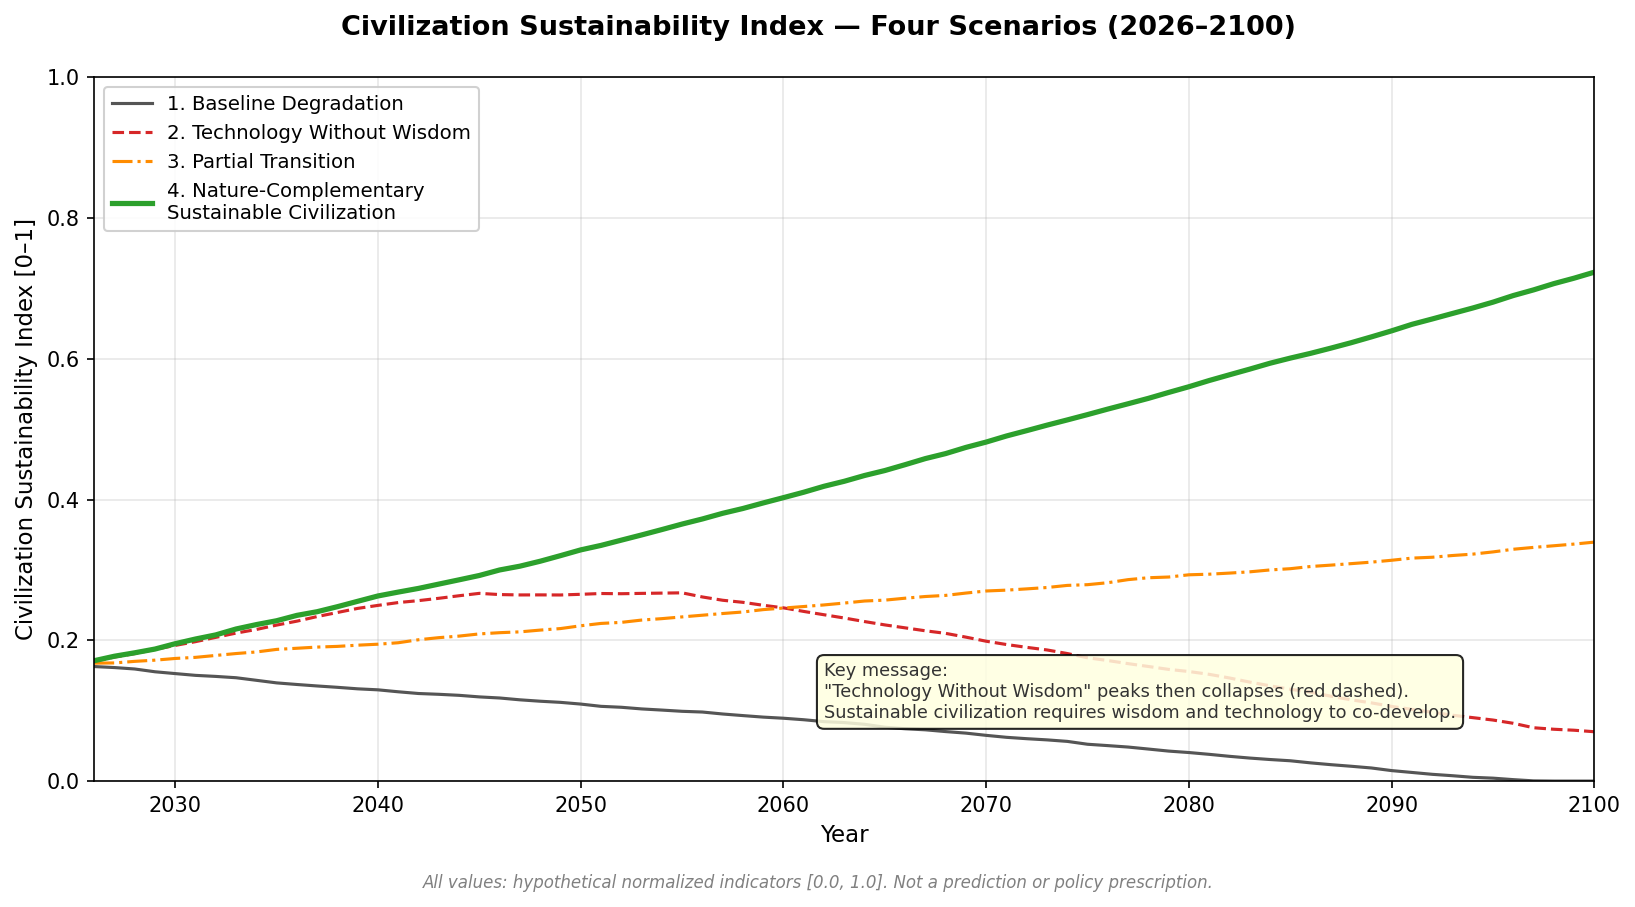
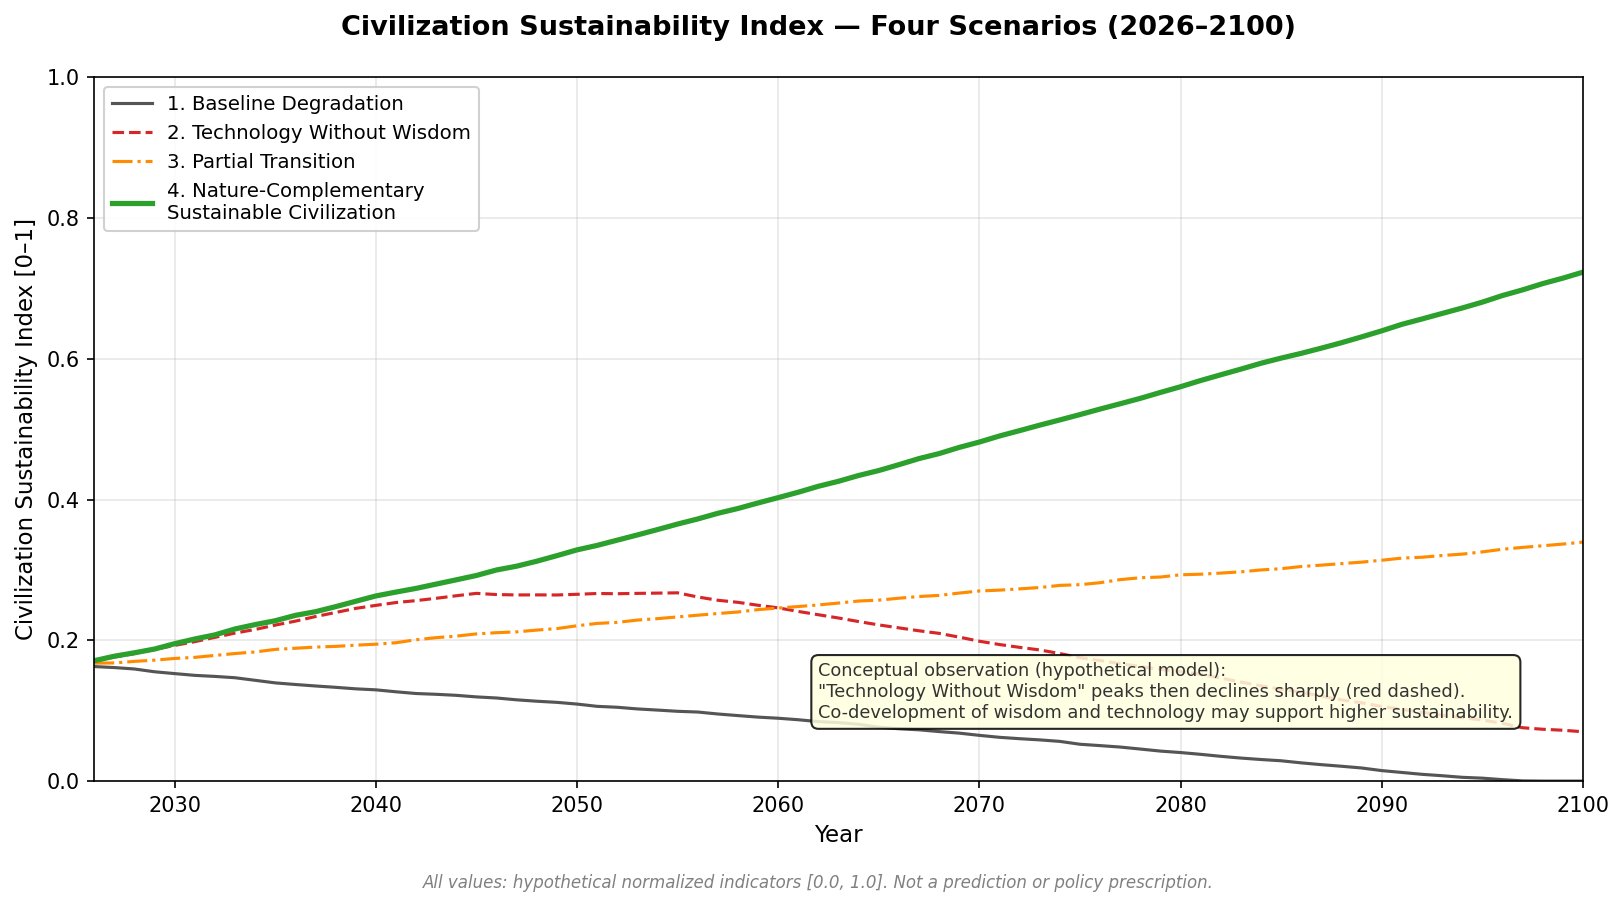
docs: soften overassertive language; add simulation output disclaimers
Replaced expressions that could imply scientific proof or deterministic
outcomes with appropriately hedged language throughout:

sustainable_civilization_simulation.py:
  - "collapses the index" -> "significantly reduces the index"
  - "critical failure condition" -> "key structural constraint in this model"
  - Figure annotation: "peaks then collapses" ->
    "peaks then declines sharply"; reframed as conceptual observation
  - Console label: "KEY FINDING" -> "CONCEPTUAL OBSERVATION"; added
    explicit statement that the model does not prove inevitable failure

SUSTAINABLE_CIVILIZATION_MODEL.md:
  - Added simulation output disclaimer block in Abstract
  - "The ecological gains are real." -> "In this hypothetical model,
    ecological indicators improve..." (removes false scientific certainty)
  - Scenario 2 message: added recommended wording that the scenario does
    not prove technological systems inevitably fail
  - "collapses the index" -> "significantly reduces the index in this formula"
  - "Collapse of maintenance funding" -> "Reduction or loss of maintenance funding"
  - "collapses sustainability" -> "may significantly reduce sustainability
    indicators" with "in this hypothetical model" qualifier

README.md:
  - Table row: "Early gains, then collapse" ->
    "Initial gains, then decline in sustainability"
  - Added Note block with simulation output disclaimer and clarification
    that Tech Without Wisdom does not prove inevitable failure
[…]

diff --git a/sustainable_civilization_simulation.py b/sustainable_civilization_simulation.py
@@ -97,8 +97,8 @@ def sustainability_index(s: dict) -> float:
     Design intent:
       - Ecological recovery is necessary (35%) but not sufficient alone.
       - Wisdom / ethics / governance contribute 30% combined (positive).
-      - Overexploitation subtracts 20%: growth without restraint collapses
-        the index even when ecological variables look healthy.
+      - Overexploitation subtracts 20%: growth without restraint significantly
+        reduces the index even when ecological variables appear healthy.
       - This encodes the premise: technology and ecology are conditions;
         civilizational quality is determined by human thought and governance.
 
@@ -229,7 +229,7 @@ def run_tech_no_wisdom() -> dict:
         else:
             s['infra'] = clamp(s['infra'] - 0.004 + n())
 
-        # Wisdom stagnates -- critical failure condition
+        # Wisdom stagnates -- key structural constraint in this model
         s['soc_coop'] = clamp(s['soc_coop'] + n() * 0.4)
         s['ethics']   = clamp(s['ethics']   + n() * 0.4)
         s['gov']      = clamp(s['gov']      + n() * 0.4)
@@ -386,9 +386,9 @@ ax.grid(True, alpha=0.3)
 
 # Key message annotation
 ax.annotate(
-    'Key message:\n'
-    '"Technology Without Wisdom" peaks then collapses (red dashed).\n'
-    'Sustainable civilization requires wisdom and technology to co-develop.',
+    'Conceptual observation (hypothetical model):\n'
+    '"Technology Without Wisdom" peaks then declines sharply (red dashed).\n'
+    'Co-development of wisdom and technology may support higher sustainability.',
     xy=(2062, 0.09), fontsize=8.5, color='#333333',
     bbox=dict(boxstyle='round,pad=0.4', facecolor='lightyellow', alpha=0.85))
 
@@ -570,10 +570,13 @@ print(SEP)
 print(' (*) Overexploitation Pressure: higher = worse (more pressure).')
 print('     All other variables: higher = better.')
 print()
-print(' KEY FINDING (conceptual):')
-print('   "Technology Without Wisdom" and "Baseline Degradation" end')
-print('   near the same low CSI range by 2100, despite strong early')
-print('   gains in Scenario 2. Sustainable civilization in this model')
-print('   requires ecological restoration AND civilizational wisdom')
-print('   to co-develop throughout the entire trajectory.')
+print(' CONCEPTUAL OBSERVATION (hypothetical model):')
+print('   In this model, "Technology Without Wisdom" and "Baseline Degradation"')
+print('   end near the same low CSI range by 2100, despite early gains in')
+print('   Scenario 2. This conceptually illustrates that ecological technologies')
+print('   may lose sustainability when combined with overexploitation, weak')
+print('   governance, and insufficient ethical alignment. It does not prove')
+print('   that technological systems inevitably fail. Co-development of')
+print('   ecological restoration and civilizational wisdom is the pathway')
+print('   that produces higher sustainability in this hypothetical model.')
 print(SEP)

diff --git a/SUSTAINABLE_CIVILIZATION_MODEL.md b/SUSTAINABLE_CIVILIZATION_MODEL.md
@@ -22,6 +22,8 @@ The simulation models four scenarios over a 75-year period (2026–2100) using h
 
 All values are hypothetical and normalized to [0.0, 1.0]. This is a conceptual simulation, not a scientific prediction.
 
+> **All simulation outputs are hypothetical normalized indicators designed for conceptual exploration. They are not measured data, scientific proof, climate projections, agricultural forecasts, or policy recommendations.**
+
 ---
 
 ## 1. Purpose
@@ -75,9 +77,9 @@ Why? Because:
 - Without long-term governance, the institutions that manage HRS/DGS systems underfund maintenance and monitoring after the initial momentum fades.
 - Overexploitation pressure — held at bay during the technology rollout — rebounds sharply and surpasses even the baseline level by year 2100 in this model.
 
-**The ecological gains are real. The civilizational transformation does not follow.**
+**In this hypothetical model, ecological indicators improve, but the Civilization Sustainability Index does not follow without wisdom co-development.**
 
-This is not a prediction. It is a structural hypothesis: ecological systems can recover, but if the human systems managing those ecological gains remain oriented toward short-term extraction and zero-sum competition, the recovery will not produce sustainable civilization.
+This is not a prediction or proof. It is a structural hypothesis encoded in the model's parameters: if the human systems managing ecological gains remain oriented toward short-term extraction and zero-sum competition, the simulation suggests that sustainability indicators may not improve significantly.
 
 ---
 
@@ -95,7 +97,7 @@ No intervention. Ecological degradation continues: soil loss, microbial decline,
 
 HRS, DGS, and related ecological technologies are deployed. Strong early gains result. However, human wisdom — ethical alignment, social cooperation, long-term governance, voluntary restraint — does not develop. Systems are managed for short-term benefit. Overexploitation rebounds sharply after initial reduction. Ecological gains erode under mismanagement after approximately year 2056 (model step 30). The Civilization Sustainability Index ends near the baseline level.
 
-**Conceptual message:** Technology without wisdom is temporarily effective and ultimately unstable. Advanced systems may be misused without a civilizational wisdom layer.
+**Conceptual message:** This scenario does not prove that technological systems inevitably fail. Rather, it conceptually illustrates that ecological technologies may lose sustainability when combined with short-term profit seeking, overexploitation, weak governance, low cooperation, and insufficient ethical alignment. Advanced systems may be misused without a civilizational wisdom layer.
 
 ---
 
@@ -164,7 +166,7 @@ Where:
 
 - Ecological recovery holds the largest single weight (35%) — it is necessary.
 - Wisdom and governance together hold 30% (ethics + cooperation + governance) — comparable in importance to ecological recovery.
-- Overexploitation subtracts 20% — growth without restraint collapses the index.
+- Overexploitation subtracts 20% — growth without restraint significantly reduces the index in this formula.
 - This means a scenario with perfect ecological recovery but zero ethical alignment and maximum overexploitation would still yield a low CSI.
 
 **Important note:** These weights are conceptual approximations. They are not empirically derived, peer-reviewed, or validated. They encode the author's structural hypothesis about what determines civilizational sustainability. Independent frameworks would produce different results.
@@ -188,7 +190,7 @@ Without these, even well-designed ecological systems are vulnerable to:
 
 - Overextraction of restored ecosystems before they stabilize
 - Privatization of restored commons for short-term profit
-- Collapse of maintenance funding after the initial momentum of deployment fades
+- Reduction or loss of maintenance funding after the initial momentum of deployment fades
 - Misuse of surplus food or water capacity to fuel further unsustainable expansion rather than stabilization
 
 ### The Wisdom Variable Cluster
@@ -262,7 +264,7 @@ The hypothetical year-2100 values from the simulation (not predictions):
 
 1. **Ecological variables in Scenario 2 end up lower than in Scenarios 3 and 4** despite a much stronger initial deployment. This reflects the mismanagement trajectory: over-extracted and underfunded systems degrade faster than gradually developed ones.
 
-2. **Overexploitation in Scenario 2 reaches the maximum** (1.0) by year 2100. This single factor suppresses the CSI regardless of ecological variable values, illustrating the structural claim: exploitation without restraint collapses sustainability.
+2. **Overexploitation in Scenario 2 reaches the maximum** (1.0) by year 2100 in this hypothetical model. This single factor suppresses the CSI regardless of ecological variable values, suggesting within this model that exploitation without restraint may significantly reduce sustainability indicators.
 
 3. **The Partial Transition (Scenario 3) produces meaningfully better ecological outcomes than Scenario 2**, despite a slower technology rollout, because wisdom variables co-develop and limit overexploitation. This suggests that the pace of technology rollout matters less than the alignment of human governance with ecological limits.
 

diff --git a/README.md b/README.md
@@ -394,9 +394,11 @@ In this model, the scenario "Technology Without Wisdom" produces a Civilization 
 | Scenario | Technology | Wisdom / Ethics | Outcome |
 |---|---|---|---|
 | 1. Baseline Degradation | None | Stagnant | Continuous decline |
-| 2. Technology Without Wisdom | Strong early rollout | Stagnant | Early gains, then collapse |
+| 2. Technology Without Wisdom | Strong early rollout | Stagnant | Initial gains, then decline in sustainability |
 | 3. Partial Transition | Moderate | Partial growth | Steady moderate improvement |
 | 4. Nature-Complementary Civilization | Systematic deployment | Co-evolves with technology | Highest long-term sustainability |
+
+> **Note:** All simulation outputs are hypothetical normalized indicators designed for conceptual exploration. They are not measured data, scientific proof, climate projections, agricultural forecasts, or policy recommendations. The Technology Without Wisdom scenario does not prove that technological systems inevitably fail; it conceptually illustrates that ecological technologies may lose sustainability when combined with overexploitation, weak governance, and insufficient ethical alignment.
 
 **Run:**
 